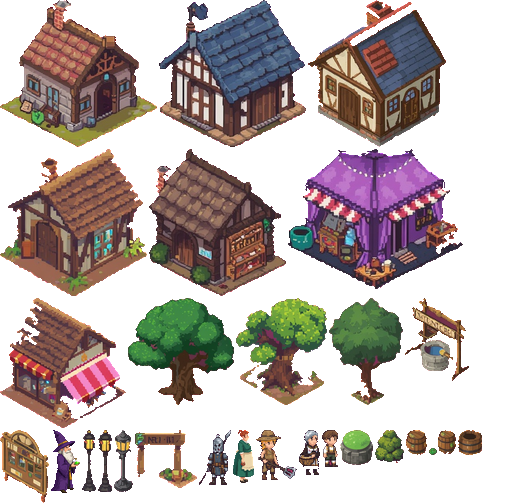
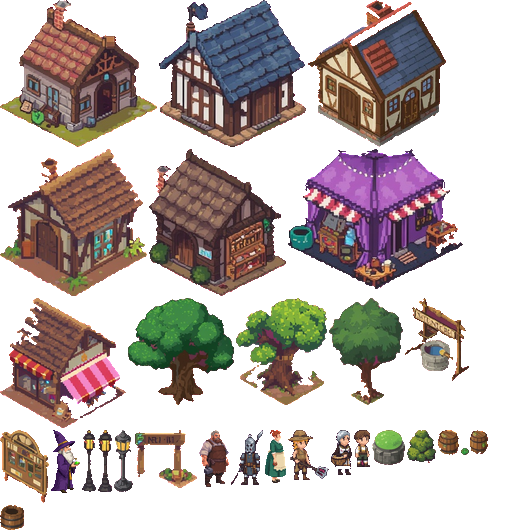
Mazmorra con aspecto propio, sprite de Tobías e iconos de reliquias
- Suelo de losas rúnicas (img/ground/dungeon.png) y atlas de objetos de la Mazmorra
  (columnas, antorchas, cristales, jaulas, cofres y huesos), solo dentro de la Mazmorra
- Iluminación morada y decoración propia al entrar (dressDungeon)
- Tobías el herrero con su sprite pintado
- Iconos pintados para las 8 reliquias únicas

Claude-Session: https://claude.ai/code/session_015RNUyaQ6fKR3Ufego5oPP2

diff --git a/www/js/props_data.js b/www/js/props_data.js
@@ -1,4 +1,4 @@
 /* Generado por tools/art/build_props.py — no editar a mano. */
 'use strict';
 const PROP_WU_PER_PX = 1.2;
-const PROP_ATLAS = {"ceniza":{"tree":[[0,0,94,103],[96,0,71,103],[169,0,46,103],[217,0,73,103]],"pillar":[[292,0,38,73],[332,0,23,73],[357,0,44,73],[403,0,30,73]],"crystal":[[435,0,49,48],[0,105,50,48]],"brazier":[[52,105,24,43],[78,105,30,43]],"rock":[[110,105,39,38],[151,105,36,38],[189,105,43,38],[234,105,53,38]],"fern":[[289,105,24,18],[315,105,13,18],[330,105,19,18]],"bones":[[351,105,21,17]]},"pantano":{"tree":[[0,0,86,103],[88,0,79,103],[169,0,75,103],[246,0,111,103]],"pillar":[[359,0,39,73],[400,0,52,73]],"crystal":[[454,0,53,48],[0,105,50,48]],"rock":[[52,105,36,38],[90,105,46,38],[138,105,45,38]],"shroom":[[185,105,16,18],[203,105,16,18],[221,105,14,18],[237,105,15,18]]},"glaciar":{"tree":[[0,0,84,103],[86,0,69,103],[157,0,79,103],[238,0,72,103],[312,0,66,103],[380,0,89,103]],"pillar":[[471,0,33,73],[0,105,25,73],[27,105,38,73],[67,105,36,73]],"crystal":[[105,105,55,48],[162,105,51,48],[215,105,49,48],[266,105,44,48]],"brazier":[[312,105,31,43],[345,105,28,43],[375,105,33,43]],"rock":[[410,105,32,38],[444,105,37,38],[0,180,40,38],[42,180,41,38],[85,180,33,38]],"shard":[[120,180,21,17],[143,180,36,17],[181,180,34,17]]},"desierto":{"tree":[[0,0,76,103],[78,0,74,103],[154,0,72,103],[228,0,62,103]],"pillar":[[292,0,35,73],[329,0,36,73],[367,0,36,73],[405,0,47,73]],"crystal":[[454,0,50,48],[0,105,46,48],[48,105,47,48]],"brazier":[[97,105,43,43],[142,105,28,43],[172,105,59,43]],"rock":[[233,105,32,38],[267,105,51,38],[320,105,26,38],[348,105,52,38]],"skull":[[402,105,19,22],[423,105,22,22]]},"villa":{"house":[[0,0,157,147],[159,0,147,147],[308,0,138,147],[0,149,147,147],[149,149,137,147]],"alchemy":[[288,149,175,140]],"stall":[[0,298,126,130]],"oak":[[128,298,106,107],[236,298,91,107],[329,298,74,107]],"well":[[405,298,64,83]],"board":[[0,430,49,73]],"alchemist":[[51,430,29,63]],"lamp":[[82,430,14,62],[98,430,14,62],[114,430,19,62]],"sign":[[135,430,62,58]],"vil2":[[199,430,32,55]],"merchant":[[233,430,21,53]],"vil0":[[256,430,41,50]],"vil1":[[299,430,21,45]],"vil3":[[322,430,16,37]],"cauldron":[[340,430,33,35]],"bush":[[375,430,29,33]],"barrel":[[406,430,21,25],[429,430,27,25],[458,430,24,25]]},"abismo":{"tree":[[0,0,66,103],[68,0,65,103],[135,0,102,103]],"pillar":[[239,0,33,73],[274,0,55,73],[331,0,55,73],[388,0,39,73]],"crystal":[[429,0,50,48],[0,105,57,48],[59,105,40,48]],"brazier":[[101,105,26,43],[129,105,35,43]],"rock":[[166,105,29,38],[197,105,34,38],[233,105,30,38],[265,105,39,38],[306,105,26,38]]}};
+const PROP_ATLAS = {"ceniza":{"tree":[[0,0,94,103],[96,0,71,103],[169,0,46,103],[217,0,73,103]],"pillar":[[292,0,38,73],[332,0,23,73],[357,0,44,73],[403,0,30,73]],"crystal":[[435,0,49,48],[0,105,50,48]],"brazier":[[52,105,24,43],[78,105,30,43]],"rock":[[110,105,39,38],[151,105,36,38],[189,105,43,38],[234,105,53,38]],"fern":[[289,105,24,18],[315,105,13,18],[330,105,19,18]],"bones":[[351,105,21,17]]},"pantano":{"tree":[[0,0,86,103],[88,0,79,103],[169,0,75,103],[246,0,111,103]],"pillar":[[359,0,39,73],[400,0,52,73]],"crystal":[[454,0,53,48],[0,105,50,48]],"rock":[[52,105,36,38],[90,105,46,38],[138,105,45,38]],"shroom":[[185,105,16,18],[203,105,16,18],[221,105,14,18],[237,105,15,18]]},"glaciar":{"tree":[[0,0,84,103],[86,0,69,103],[157,0,79,103],[238,0,72,103],[312,0,66,103],[380,0,89,103]],"pillar":[[471,0,33,73],[0,105,25,73],[27,105,38,73],[67,105,36,73]],"crystal":[[105,105,55,48],[162,105,51,48],[215,105,49,48],[266,105,44,48]],"brazier":[[312,105,31,43],[345,105,28,43],[375,105,33,43]],"rock":[[410,105,32,38],[444,105,37,38],[0,180,40,38],[42,180,41,38],[85,180,33,38]],"shard":[[120,180,21,17],[143,180,36,17],[181,180,34,17]]},"desierto":{"tree":[[0,0,76,103],[78,0,74,103],[154,0,72,103],[228,0,62,103]],"pillar":[[292,0,35,73],[329,0,36,73],[367,0,36,73],[405,0,47,73]],"crystal":[[454,0,50,48],[0,105,46,48],[48,105,47,48]],"brazier":[[97,105,43,43],[142,105,28,43],[172,105,59,43]],"rock":[[233,105,32,38],[267,105,51,38],[320,105,26,38],[348,105,52,38]],"skull":[[402,105,19,22],[423,105,22,22]]},"villa":{"house":[[0,0,157,147],[159,0,147,147],[308,0,138,147],[0,149,147,147],[149,149,137,147]],"alchemy":[[288,149,175,140]],"stall":[[0,298,126,130]],"oak":[[128,298,106,107],[236,298,91,107],[329,298,74,107]],"well":[[405,298,64,83]],"board":[[0,430,49,73]],"alchemist":[[51,430,29,63]],"lamp":[[82,430,14,62],[98,430,14,62],[114,430,19,62]],"sign":[[135,430,62,58]],"smith":[[199,430,30,57]],"vil2":[[231,430,32,55]],"merchant":[[265,430,21,53]],"vil0":[[288,430,41,50]],"vil1":[[331,430,21,45]],"vil3":[[354,430,16,37]],"cauldron":[[372,430,33,35]],"bush":[[407,430,29,33]],"barrel":[[438,430,21,25],[461,430,27,25],[0,505,24,25]]},"dungeon":{"tree":[[0,0,65,103],[67,0,66,103],[135,0,98,103],[235,0,77,103],[314,0,63,103],[379,0,69,103],[450,0,57,103]],"pillar":[[0,105,26,73],[28,105,26,73],[56,105,32,73],[90,105,29,73],[121,105,30,73],[153,105,30,73],[185,105,36,73],[223,105,38,73],[263,105,39,73]],"crystal":[[304,105,44,48],[350,105,53,48],[405,105,46,48],[453,105,42,48],[0,180,55,48]],"brazier":[[57,180,10,43],[69,180,13,43],[84,180,15,43],[101,180,11,43],[114,180,15,43],[131,180,10,43],[143,180,11,43]],"rock":[[156,180,43,38],[201,180,42,38],[245,180,40,38],[287,180,34,38],[323,180,38,38],[363,180,45,38],[410,180,35,38],[447,180,37,38],[0,230,32,38],[34,230,36,38]],"bonepile":[[72,230,33,25],[107,230,33,25],[142,230,30,25],[174,230,40,25],[216,230,34,25],[252,230,33,25]]},"abismo":{"tree":[[0,0,66,103],[68,0,65,103],[135,0,102,103]],"pillar":[[239,0,33,73],[274,0,55,73],[331,0,55,73],[388,0,39,73]],"crystal":[[429,0,50,48],[0,105,57,48],[59,105,40,48]],"brazier":[[101,105,26,43],[129,105,35,43]],"rock":[[166,105,29,38],[197,105,34,38],[233,105,30,38],[265,105,39,38],[306,105,26,38]]}};

diff --git a/www/js/game.js b/www/js/game.js
@@ -2263,7 +2263,7 @@ function renderRift() {
   }
   if (POOL_STYLE[B.pool].light) for (const pl of pools) if (inView(pl.x, pl.y, 200)) { const q = toS(pl.x, pl.y); lights.push({ x: q.x, y: q.y, r: pl.rx * 3 * zoom, a: 0.85, rgb: B.pool === 'lava' ? '255,110,40' : '160,220,255', haze: 0.2 }); }
   for (const h of hazards) if (h.kind === 'fire' || h.kind === 'meteor' || h.kind === 'boom') { const q = toS(h.x, h.y); lights.push({ x: q.x, y: q.y, r: h.r * 2.2 * zoom, a: 0.8, rgb: '255,130,60', haze: 0.2 }); }
-  renderLighting(lights, B.ambient, B.shade);
+  renderLighting(lights, rift && rift.isDungeon ? DUNGEON_LIGHT.ambient : B.ambient, rift && rift.isDungeon ? DUNGEON_LIGHT.shade : B.shade);
   // gradación de color propia de cada mundo
   if (B.tint) { ctx.fillStyle = B.tint; ctx.fillRect(0, 0, W, H); }
   // niebla que se desplaza
@@ -2373,8 +2373,9 @@ function groundChunk(cx, cy) {
   g.scale(gs, gs);
   g.translate(-cx * CHUNK, -cy * CHUNK);
   const B = curBiome();
-  // textura de ruido pintada del bioma (a escala 2:1 para que no se note la repetición)
-  const tex = biomeGroundTex(B);
+  // textura de ruido pintada del bioma (a escala 2:1 para que no se note la repetición); la Mazmorra tiene su propio suelo
+  const DG = rift && rift.isDungeon && GROUND_IMG.dungeon;
+  const tex = biomeGroundTex(DG ? DUNGEON_GROUND : B);
   const pat = g.createPattern(tex, 'repeat');
   if (pat.setTransform) pat.setTransform(new DOMMatrix().scale(tex.patScale || 2.2));
   g.fillStyle = pat;
@@ -2390,7 +2391,7 @@ function groundChunk(cx, cy) {
       for (let i = 0; i < (painted ? 2 : 4); i++) {
         const px = (gx + r2()) * CHUNK, py = (gy + r2()) * CHUNK, pr = 120 + r2() * 200;
         const gr = g.createRadialGradient(px, py, 0, px, py, pr);
-        const col = B.patch[i % 2];
+        const col = (DG ? DUNGEON_GROUND : B).patch[i % 2];
         gr.addColorStop(0, col); gr.addColorStop(1, col.replace(/[\d.]+\)$/, '0)'));
         g.fillStyle = gr;
         g.beginPath(); g.ellipse(px, py, pr, pr * 0.6, 0, 0, TAU); g.fill();
@@ -2408,6 +2409,7 @@ function groundChunk(cx, cy) {
     for (const d of decos) {
       if (d.x < cx * CHUNK - 40 || d.x > (cx + 1) * CHUNK + 40 || d.y < cy * CHUNK - 40 || d.y > (cy + 1) * CHUNK + 40) continue;
       if (painted && (d.kind === 'blotch' || d.kind === 'pebble')) continue; // la textura pintada ya los trae
+      if (DG) { drawPropDeco(d); continue; }
       if (drawPropDeco(d)) continue;
       if (drawBiomeDeco(d)) continue;
       if (d.kind === 'fern') drawFern(d);

diff --git a/www/js/props.js b/www/js/props.js
@@ -17,6 +17,7 @@ const PROP_DECO = {
   pantano: { glowshroom: 'shroom' },
   glaciar: { iceshard: 'shard' },
   desierto: { bones: 'skull' },
+  dungeon: { bones: 'bonepile' },
 };
 
 // Número estable a partir de la posición (variante y volteo fijos para cada objeto)
@@ -24,7 +25,7 @@ const propHash = (x, y) => { let h = Math.imul((x * 73) | 0, 0x9e3779b1) ^ Math.
 
 function propFrame(kind, x, y) {
   if (scene !== 'rift') return null;
-  const id = curBiome().id, img = PROP_IMG[id], list = PROP_ATLAS[id] && PROP_ATLAS[id][kind];
+  const id = rift && rift.isDungeon && PROP_IMG.dungeon ? 'dungeon' : curBiome().id, img = PROP_IMG[id], list = PROP_ATLAS[id] && PROP_ATLAS[id][kind];
   if (!img || !list || !list.length) return null;
   const h = propHash(x, y);
   return { img, f: list[Math.floor(h * list.length) % list.length], flip: ((h * 7919) % 1) < 0.5 };
@@ -56,7 +57,7 @@ function drawPropSprite(o, kind) {
   const h = blitProp(fr, o.x, o.y, scale);
   if (kind === 'brazier') {
     const fl = 0.8 + Math.sin(now * 13 + o.ph) * 0.12 + Math.sin(now * 7.3 + o.ph) * 0.08;
-    glow(o.x, o.y - h * 0.8, 26 * fl, curBiome().id === 'glaciar' ? '120,190,255' : '255,150,60', 0.7);
+    glow(o.x, o.y - h * 0.8, 26 * fl, curBiome().id === 'glaciar' && !rift.isDungeon ? '120,190,255' : rift.isDungeon && o.ph > 3 ? '200,90,255' : '255,150,60', 0.7);
     if (Math.random() < 0.25) particles.push({ kind: 'glowdot', x: o.x + rand(-4, 4), y: o.y - h * 0.85, vx: rand(-8, 8), vy: rand(-60, -30), life: 0.6, max: 0.6, rgb: '255,170,70', size: 3, grav: 0 });
   }
   return true;
@@ -65,7 +66,7 @@ function drawPropSprite(o, kind) {
 // Detalles del suelo (se pintan una vez en los trozos de suelo cacheados)
 function drawPropDeco(d) {
   if (scene !== 'rift') return false;
-  const map = PROP_DECO[curBiome().id];
+  const map = PROP_DECO[rift && rift.isDungeon && PROP_IMG.dungeon ? 'dungeon' : curBiome().id];
   const kind = map && map[d.kind];
   if (!kind) return false;
   const fr = propFrame(kind, d.x, d.y);

diff --git a/www/js/dungeon.js b/www/js/dungeon.js
@@ -92,7 +92,27 @@ function startDungeon(tier) {
   rift.threat += 3 + Math.floor(tier / 2);
   rift.goal = 60 + tier * 2;
   rift.time += 60;
+  dressDungeon();
   showBanner('Mazmorra · Piso ' + tier, '#ff5ad0', 'Élites por todas partes · Súper Jefe al final');
+}
+
+// Aspecto propio de la Mazmorra: losas rúnicas, columnas, antorchas, jaulas y huesos (img/ground/dungeon.png, img/props/dungeon.png)
+const DUNGEON_GROUND = { id: 'dungeon', patch: ['rgba(150,40,170,0.10)', 'rgba(10,4,20,0.28)'] };
+const DUNGEON_LIGHT = { ambient: 0.52, shade: '70,45,110' };
+function dressDungeon() {
+  // menos «árboles» (jaulas, cofres, cadalsos), más columnas y antorchas; sin charcos del bioma
+  const trees = obstacles.filter((o) => o.kind === 'tree');
+  obstacles = obstacles.filter((o) => o.kind !== 'tree' || trees.indexOf(o) % 3 === 0);
+  obstacles.forEach((o) => { if (o.kind === 'tree') o.s = Math.min(o.s, 1.1); });
+  const cx = WORLD.w / 2, cy = WORLD.h / 2;
+  for (let i = 0; i < 70; i++) {
+    const x = rand(100, WORLD.w - 100), y = rand(100, WORLD.h - 100);
+    if (dist(x, y, cx, cy) < 240 || obstacles.some((o) => dist(x, y, o.x, o.y) < o.r + 90)) continue;
+    obstacles.push(i % 3 ? { kind: 'pillar', x, y, r: 16, s: rand(0.95, 1.25), v: randi(0, 2) } : { kind: 'brazier', x, y, r: 11, ph: rand(0, 6) });
+  }
+  pools = [];
+  decos = decos.filter((d, i) => i % 9 === 0).map((d) => ({ ...d, kind: 'bones' }));
+  groundChunks.clear();
 }
 
 // Recompensas al vencer al jefe de la Mazmorra

diff --git a/www/js/icons.js b/www/js/icons.js
@@ -156,7 +156,13 @@ function iconSVG(kind, rarity, size = 48, extra = '', pal) {
 function tintIcon(kind, color, hi, size = 40) {
   return iconSVG(kind, 0, size, 'aria-hidden="true"', { m: '#9aa3ab', ml: hi || '#ffffff', g: color, l: '#7a5233', c: color });
 }
-function itemSVG(it, size = 48) { return iconSVG(itemKind(it), it.rarity, size, 'aria-hidden="true"'); }
+// Las reliquias únicas de la Mazmorra tienen icono pintado propio (img/uniques/<clave>.png); las armas solo si son de filo
+const UNIQUE_BLADES = ['dagger', 'greatsword'];
+function itemSVG(it, size = 48) {
+  if (it.unique && (it.slot !== 'arma' || UNIQUE_BLADES.includes(itemKind(it))))
+    return `<img src="img/uniques/${it.unique}.png" width="${size}" height="${size}" alt="" aria-hidden="true" style="object-fit:contain;filter:drop-shadow(0 0 4px rgba(255,170,60,.55))">`;
+  return iconSVG(itemKind(it), it.rarity, size, 'aria-hidden="true"');
+}
 
 // Silueta vacía de una ranura (gris apagado)
 function slotSVG(slot, size = 40) {

diff --git a/www/js/biomes.js b/www/js/biomes.js
@@ -56,7 +56,8 @@ const BIOME_TEX = new Map();
 // del ruido procedural. GROUND_TILE = unidades de mundo que ocupa una repetición de la textura.
 const GROUND_TILE = 420;
 const GROUND_IMG = {};
-['ceniza', 'pantano', 'glaciar', 'desierto', 'abismo', 'plaza'].forEach((id) => {
+const GROUND_SIZE = { dungeon: 380 }; // unidades de mundo por repetición (6×6 losas en la Mazmorra)
+['ceniza', 'pantano', 'glaciar', 'desierto', 'abismo', 'plaza', 'dungeon'].forEach((id) => {
   const img = new Image();
   img.onload = () => {
     GROUND_IMG[id] = img;
@@ -74,7 +75,7 @@ function biomeGroundTex(b) {
     c = document.createElement('canvas');
     c.width = img.width; c.height = img.height;
     c.getContext('2d').drawImage(img, 0, 0);
-    c.painted = true; c.patScale = GROUND_TILE / img.width;
+    c.painted = true; c.patScale = (GROUND_SIZE[b.id] || GROUND_TILE) / img.width;
     BIOME_TEX.set(b.id, c);
     return c;
   }

diff --git a/www/js/village.js b/www/js/village.js
@@ -478,7 +478,7 @@ function drawNpc(n) {
   ctx.save();
   ctx.translate(n.x, n.y);
   if (vHero.x > n.x + 20) ctx.scale(-1, 1); // mira hacia el héroe
-  if (!drawVillager(n.id === 'smith' ? 'vil2' : n.id, 0, 0, -1, false, now + n.x * 0.01)) // el sprite mira a la derecha: -1 para que, con el volteo de arriba, mire al héroe
+  if (!drawVillager(n.id, 0, 0, -1, false, now + n.x * 0.01)) // el sprite mira a la derecha: -1 para que, con el volteo de arriba, mire al héroe
     sprite('npc|' + n.id + '|' + fi, 60, 100, 30, 96, () => (n.id === 'merchant' ? artMerchant : artAlchemist)(fi / 8));
   ctx.restore();
   // nombre e indicador flotante

diff --git a/tools/art/build_props.py b/tools/art/build_props.py
@@ -15,7 +15,9 @@ WORLD_H = {'tree': 124, 'pillar': 88, 'rock': 46, 'crystal': 58, 'brazier': 52,
            # Villa Candela
            'house': 176, 'stall': 156, 'alchemy': 168, 'well': 100, 'lamp': 74, 'barrel': 30, 'bush': 40,
            'sign': 70, 'cauldron': 42, 'board': 88, 'oak': 128,
-           'merchant': 64, 'alchemist': 76, 'vil0': 60, 'vil1': 54, 'vil2': 66, 'vil3': 44}
+           'merchant': 64, 'alchemist': 76, 'vil0': 60, 'vil1': 54, 'vil2': 66, 'vil3': 44, 'smith': 68,
+           # Mazmorra
+           'bonepile': 30}
 WU_PER_PX = 1.2  # densidad de píxel (≈ la del búfer HD-2D)
 
 SEL = {
@@ -66,6 +68,16 @@ SEL = {
         # vecinos (vil0 granjero, vil1 anciana, vil2 guardia, vil3 niño: mismo orden que VILLAGERS)
         'merchant': ['n2-0/00'], 'alchemist': ['n1-0/00'],
         'vil0': ['n0-0/00'], 'vil1': ['n0-0/02'], 'vil2': ['n0-0/01'], 'vil3': ['n0-0/03'],
+        'smith': ['h-0/00'],
+    },
+    # Mazmorra (solo se usa dentro de la Mazmorra: tree = jaulas, cadalsos y cadenas; rock = rocas y cofres)
+    'dungeon': {
+        'pillar': ['d-3/00', 'd-3/01', 'd-4/00', 'd-4/04', 'd-5/00', 'd-5/01', 'd-5/08', 'd-6/00', 'd-6/01'],
+        'brazier': ['d-3/02', 'd-3/04', 'd-4/01', 'd-4/02', 'd-5/03', 'd-6/02', 'd-6/03'],
+        'crystal': ['d-3/11', 'd-3/16', 'd-4/10', 'd-5/11', 'd-6/11'],
+        'rock': ['d-3/10', 'd-4/11', 'd-4/13', 'd-5/12', 'd-5/13', 'd-6/12', 'd-3/15', 'd-4/15', 'd-5/15', 'd-6/10'],
+        'tree': ['d-3/06', 'd-4/07', 'd-6/08', 'd-5/07', 'd-6/05', 'd-3/13', 'd-4/08'],
+        'bonepile': ['d-3/07', 'd-3/08', 'd-4/09', 'd-5/09', 'd-6/07', 'd-3/03'],
     },
     'abismo': {
         'tree': ['g5-0/00', 'g5-0/03', 'g5-1/01'],
